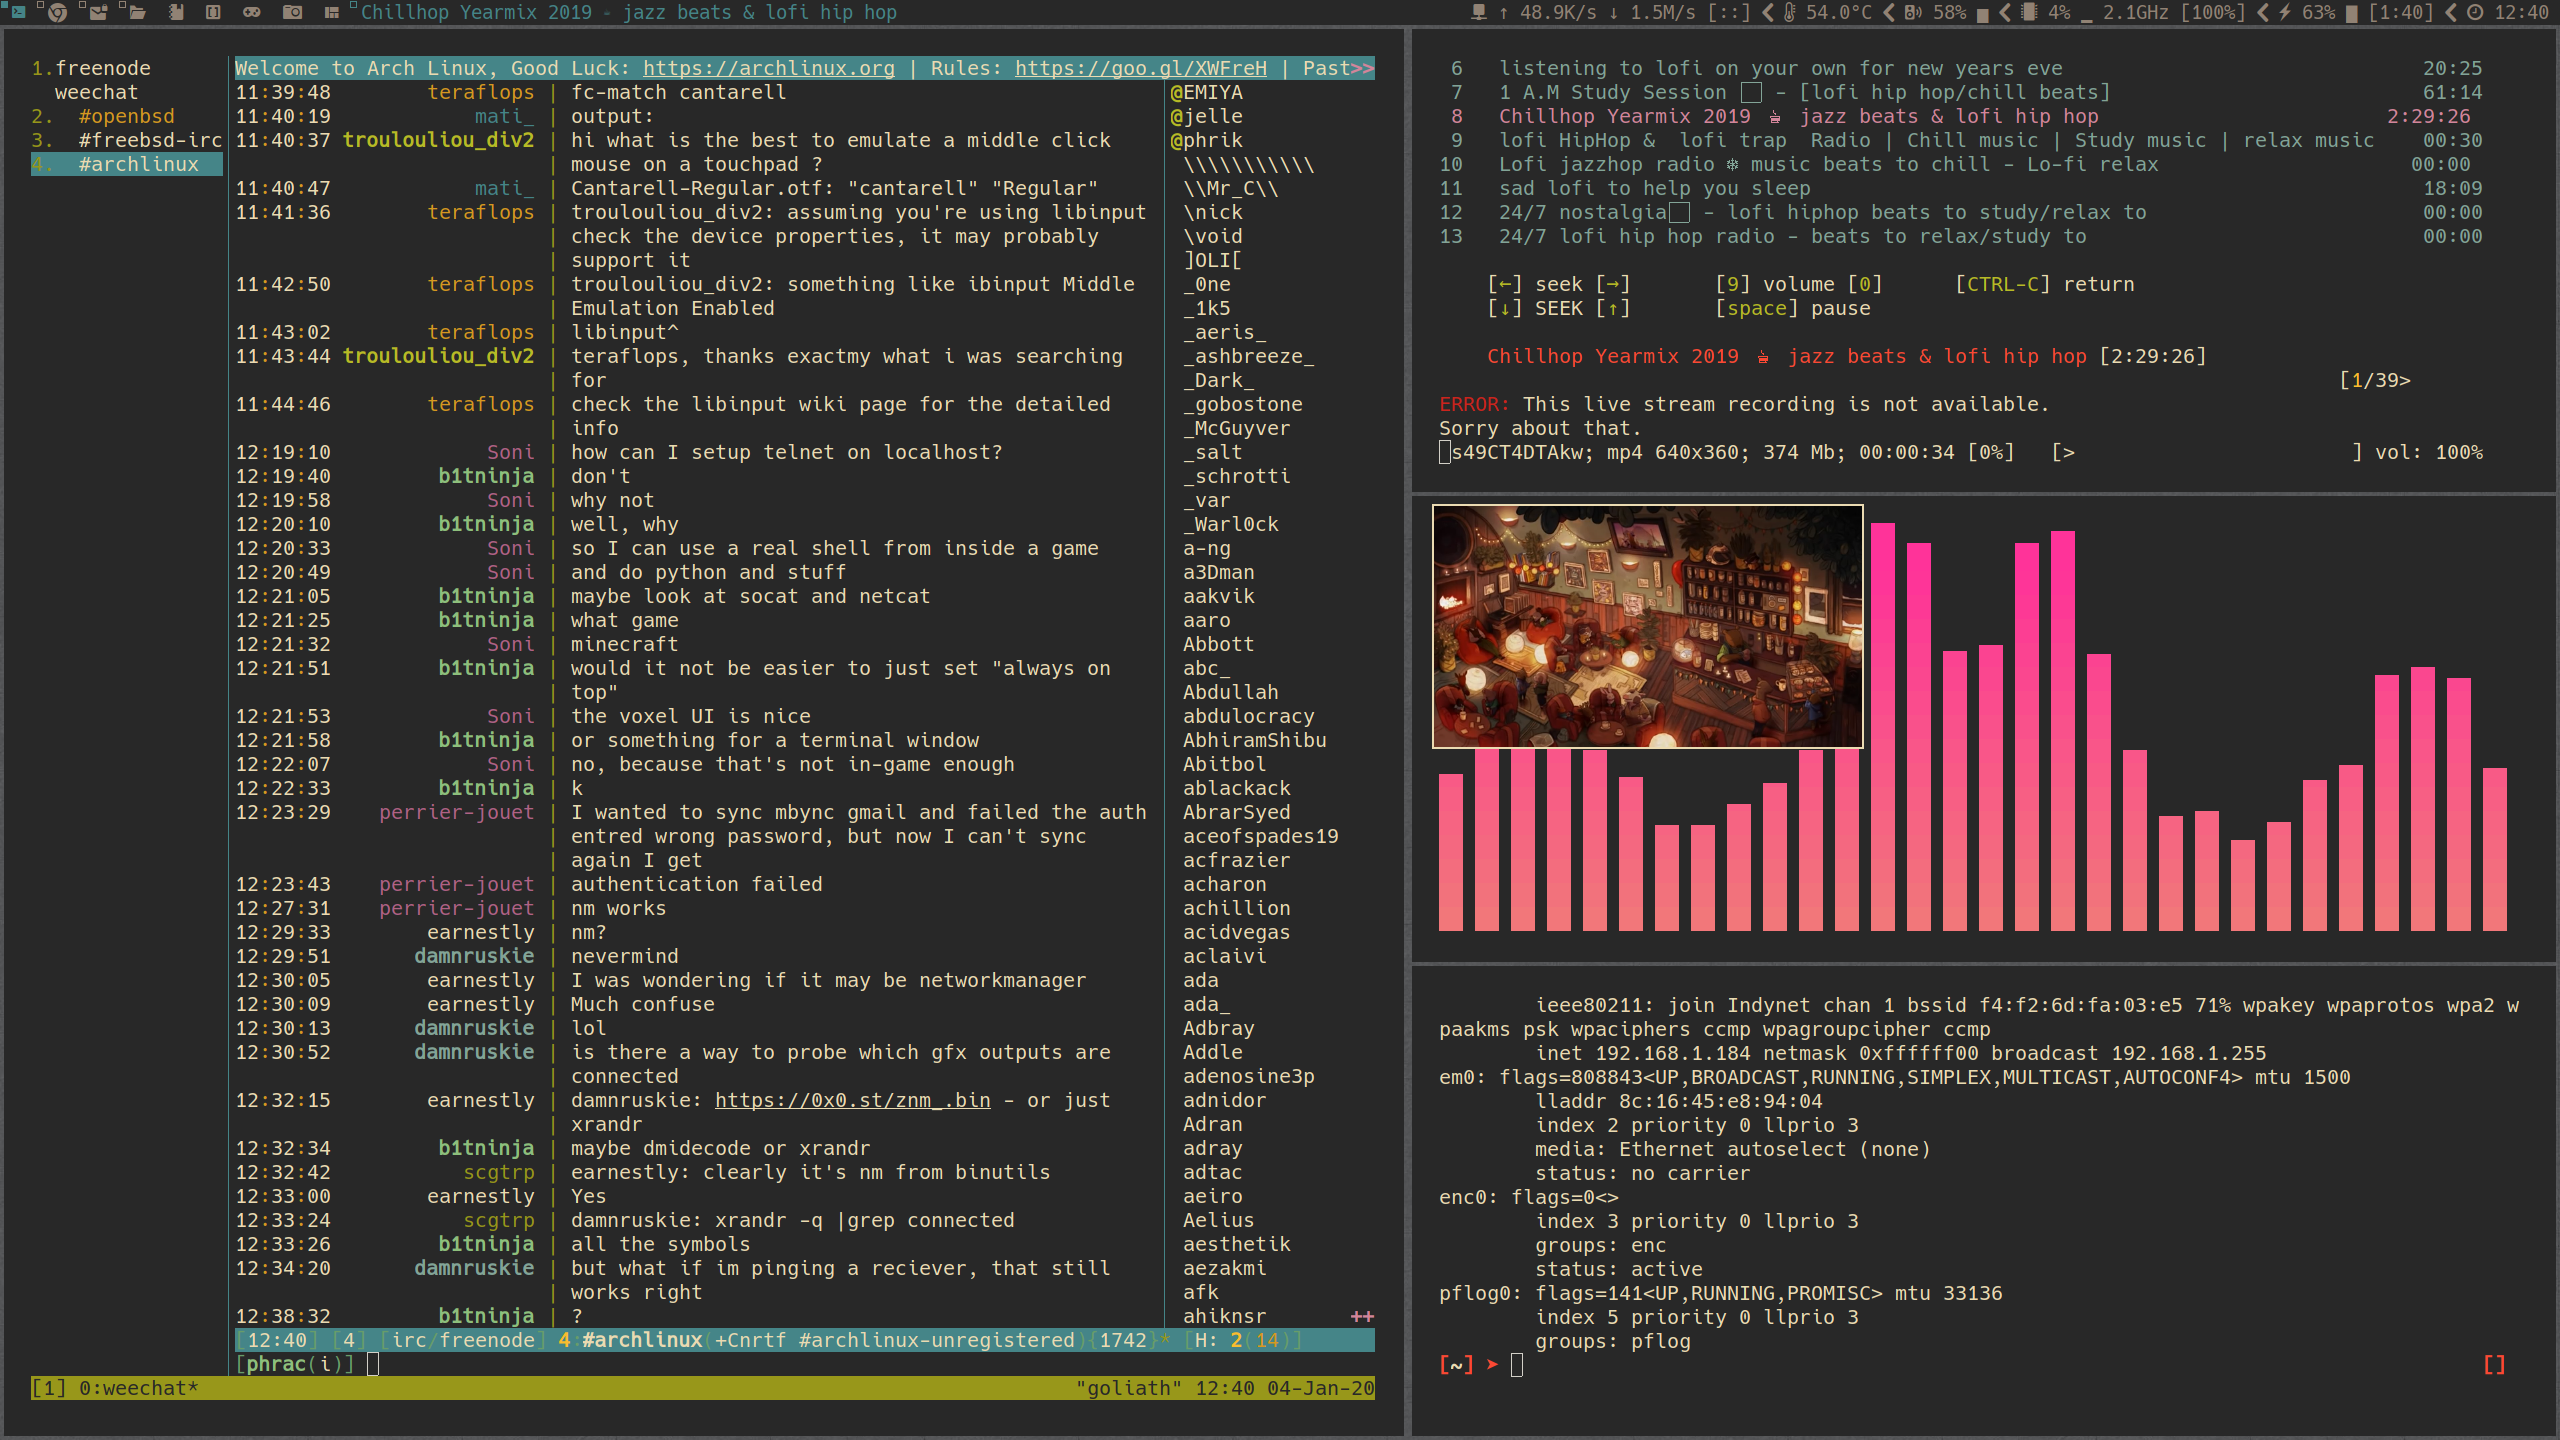
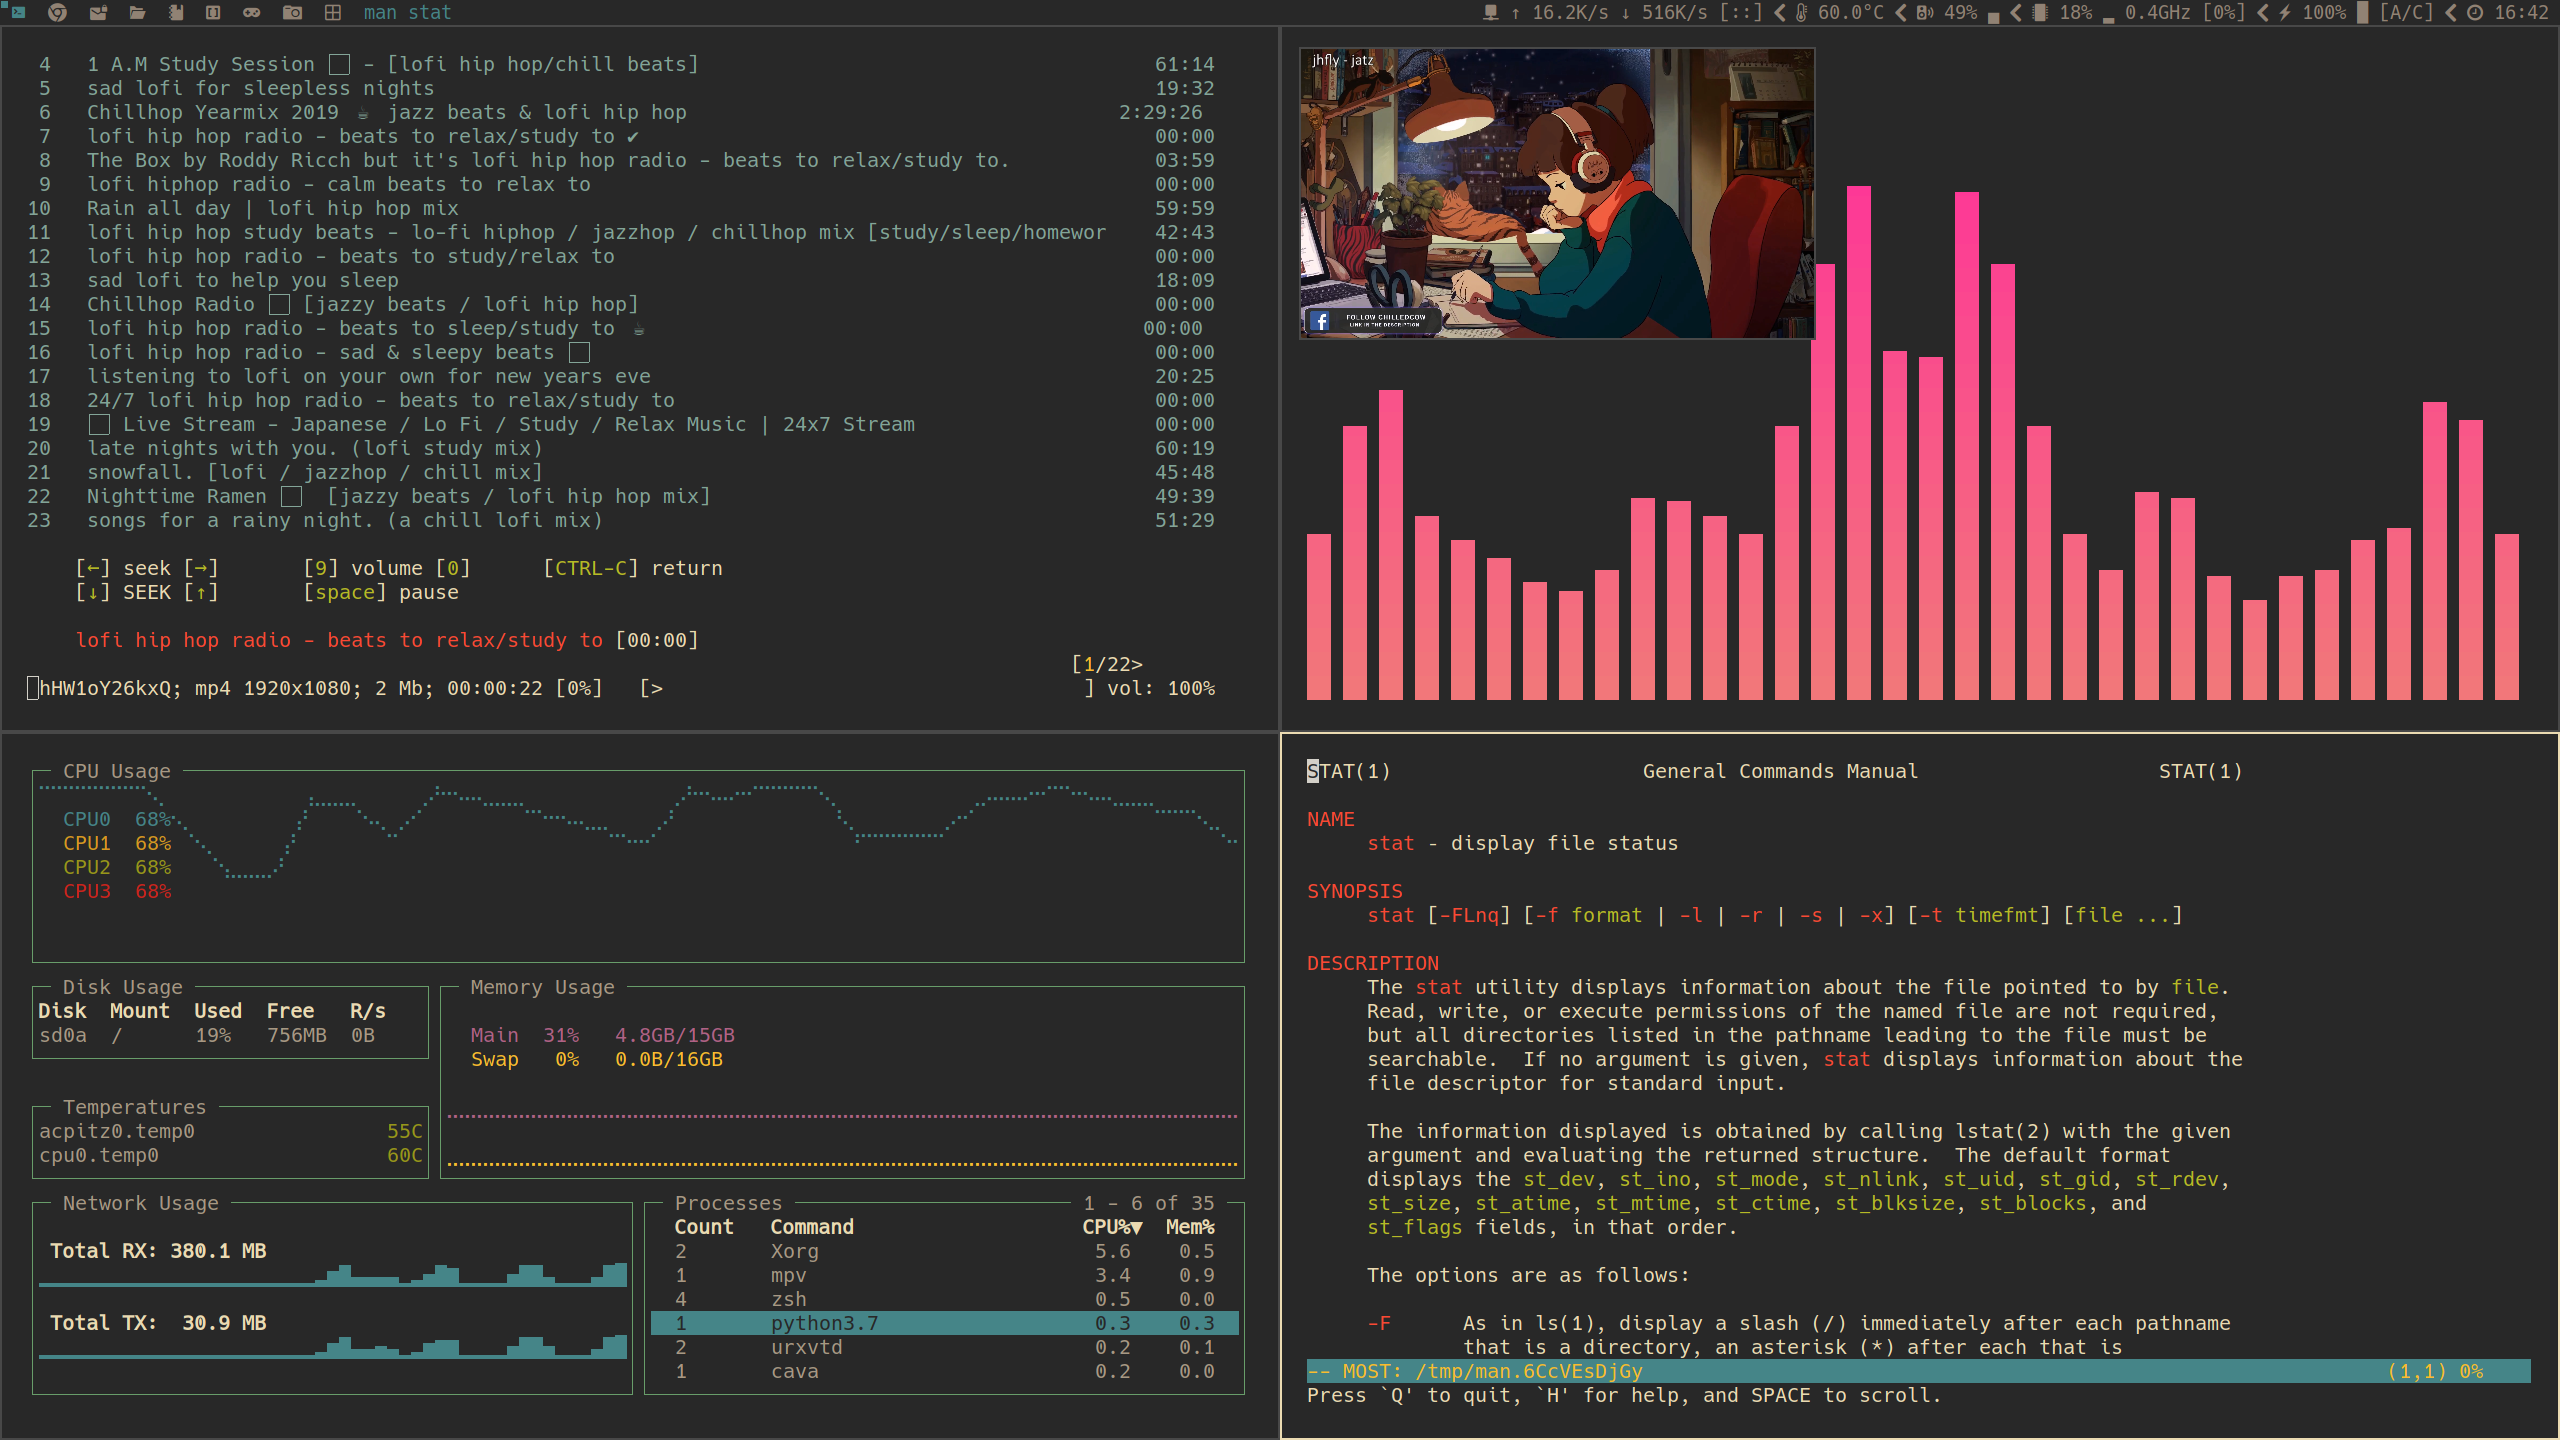
update readme; update screenshot; fix dwm ss command

Changed region(s): [[0.0, 0.0, 1.0, 1.0], [0.0312, 0.5312, 0.0625, 0.625], [0.9062, 0.25, 0.9375, 0.2812]]

diff --git a/dwm/commands.c b/dwm/commands.c
@@ -18,8 +18,8 @@ static char dmenumon[2] = "0";
 static const char *dmenucmd[]   =   { "rofi", "-show", "run", NULL };
 static const char *termcmd[]    =   { "urxvtc", NULL};
 static const char *browsercmd[] =   { "firefox", NULL };
-static const char *screenshot[] =   { "ss.py", NULL };
-static const char *windowshot[] =   { "ss.py", "-window", NULL };
+static const char *screenshot[] =   { "/home/derek/dotfiles/scripts/bin/ss.py", NULL };
+static const char *windowshot[] =   { "/home/derek/dotfiles/scripts/bin/ss.py", "-window", NULL };
 static const char *nexttrack[]  =   { "cmus-remote", "-n", NULL };
 static const char *prevtrack[]  =   { "cmus-remote", "-r", NULL };
 static const char *playpause[]  =   { "cmus-remote", "-u", NULL };

diff --git a/README.md b/README.md
@@ -1,5 +1,7 @@
-OpenBSD dotfiles
-Use GNU stow to link each module to $HOME
+## OpenBSD dotfiles
+
+    - Use *GNU stow* to link each module to $HOME:
+    `stow <pkg>` from dotfiles top level directory
 
 Screenshot ca. Jan. 2020
 ![](screenshot.png)
